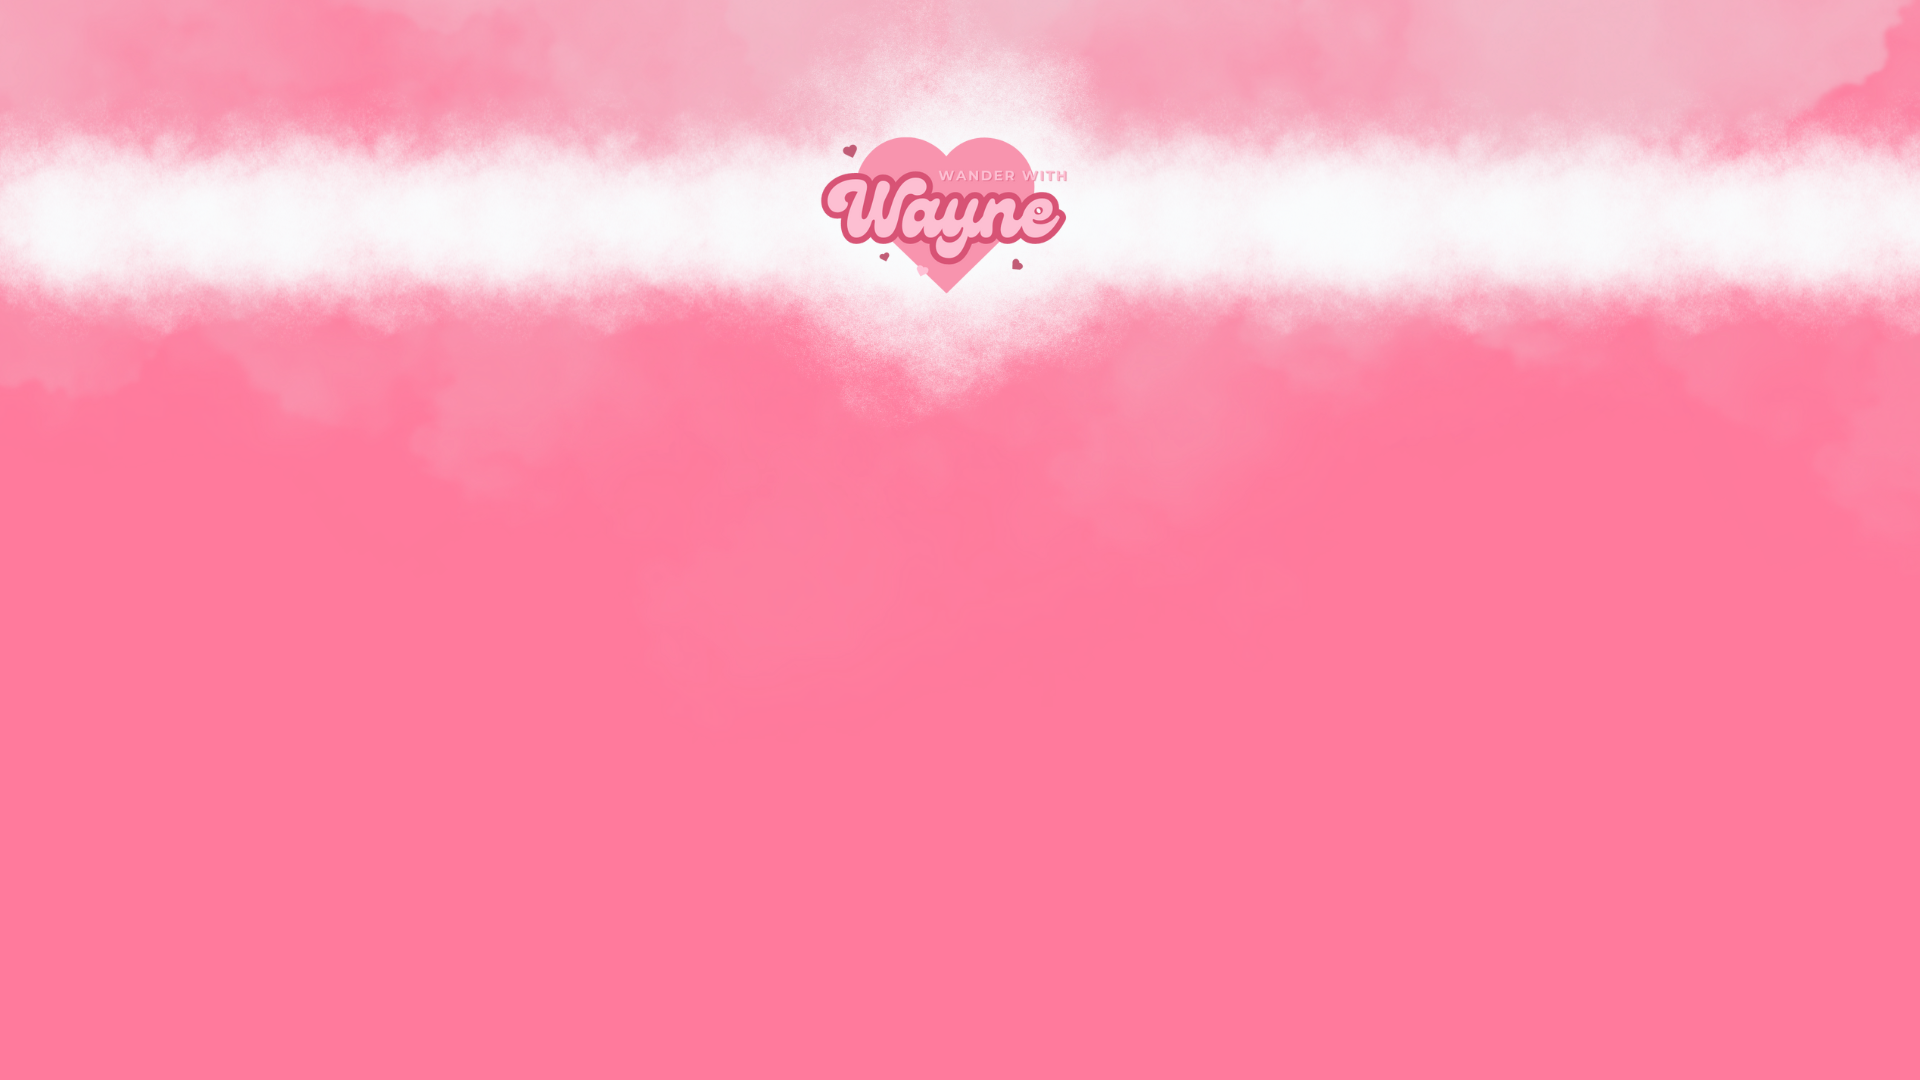
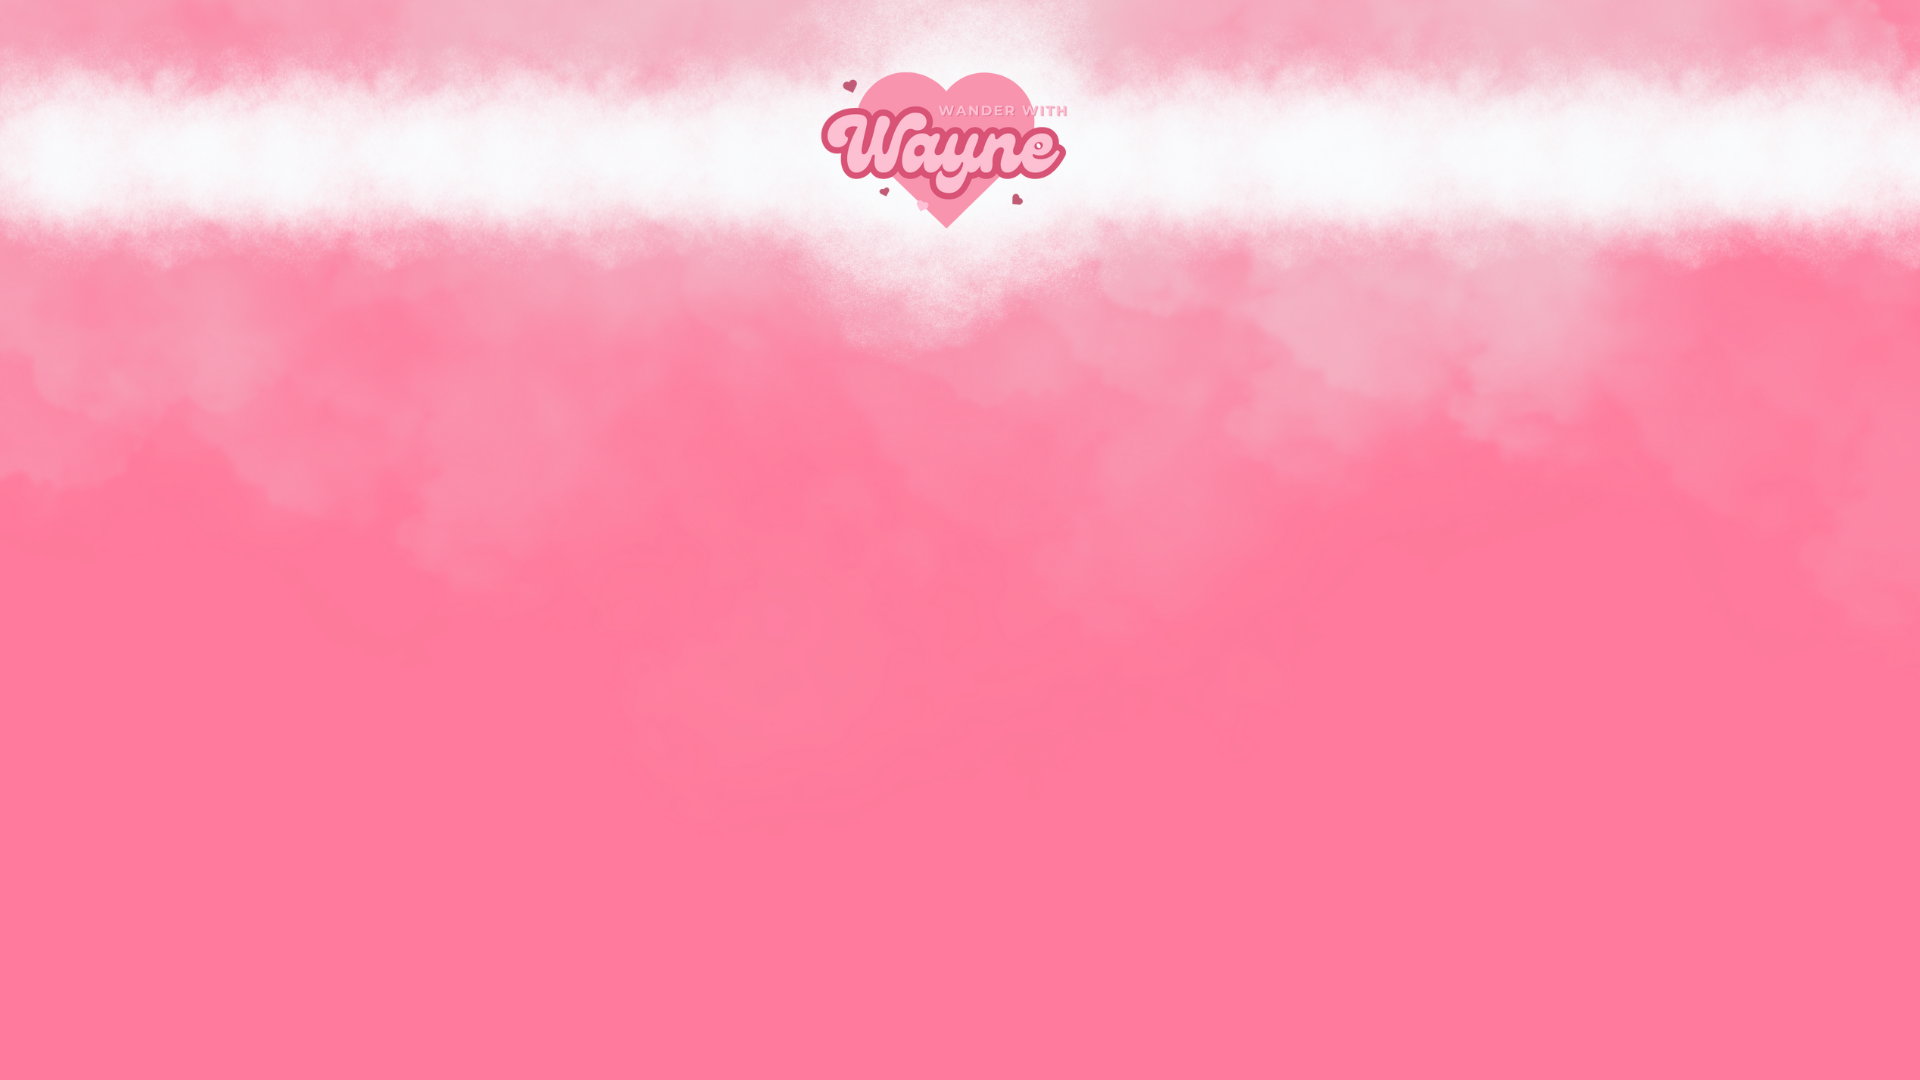
W3 Schools CSS 19. Navigation Bar

Changed region(s): [[0.0, 0.0, 1.0, 0.4278], [0.0625, 0.3056, 0.125, 0.3972]]

diff --git a/week3/index.html b/week3/index.html
@@ -21,19 +21,54 @@
 	  margin-left: auto;
 	  margin-right: auto;
 	}
+	body {
+		background-image: url("resources/images/headingclouds.png");
+		background-repeat: no-repeat;
+		background-attachment: fixed;
+		background-size: 1680px 945px;
+		background-position: center top; 
+	}
+	
+	ul {
+	  list-style-type: none;
+	  padding: 0;
+	  overflow: hidden;
+	}
+
+	li {
+	  float: left;
+	}
+
+	li a {
+	  display: block;
+	  color: #FF7A9C;;
+	  text-align: center;
+	  padding: 14px 16px;
+	  text-decoration: none;
+	}
+
+	li a:hover:not(.active) {
+	  color: #111;
+	}
+
 
 	</style>
     </head>
 
     <body style="background-color: #FF7A9C;">
+	
+	<ul>
+	  <li style="float:right"><a href="#contact">Portfolio</a></li>
+	  <li style="float:right"><a href="#mystory">My Story</a></li>
+	  <li style="float:right"><a href="#home">Home</a></li>
 
-	<img src="resources/images/headingclouds.png" alt="Cloud" class="center">
+
+	</ul>
 
 	
 	<!-- To be updated -->
-	<div class="city">
-        <h1 style="text-align:center;">Home</h1>
-        </div>
+	
+    
 	<!-- Short Intro -->
         
 		<h2 style="text-align:center;">I'm Wayne Dizon</h2>
@@ -45,14 +80,7 @@
 		This field ignites my passion as I'm eager to establish myself in the dynamic realm of technology.<br>
 		</p>
 		
-		<div class="city">
-		<h2 style="text-align:center;">Let's break the ice</h2>
-		<p style="text-align:center;"> I have two big goals. <br>
-		One, I want to <span class="note"><em> finish college with really good grades.</em></span> <br>
-		And two, I want to really understand <span class="note"><em>who I am and what I love doing,</em></span> <br>
-		and I want to make sure I can earn enough money to have a good life. <br>
-		These are the things I'm working towards every day.
-		</p></div>
+
 		
 	<!-- Button -->	
 		<button onclick="myFunction()">Hide TMI</button>

diff --git a/week3/style.css b/week3/style.css
@@ -1,8 +1,12 @@
 h1 {
-	color: white;
+	color: #D85375;
 	font-family: Arial;
 	font-size:20px;
-	background-image: url("resources/images/headingclouds.png");
+	padding-top: 200px;
+	padding-right: 30px;
+	padding-bottom: 50px;
+	padding-left: 500px;
+
 
 }
 /* Cursive font*/
@@ -17,5 +21,4 @@ p {
 	font-family: Georgia, serif;
 	font-size: 160%;
 }
-
 
